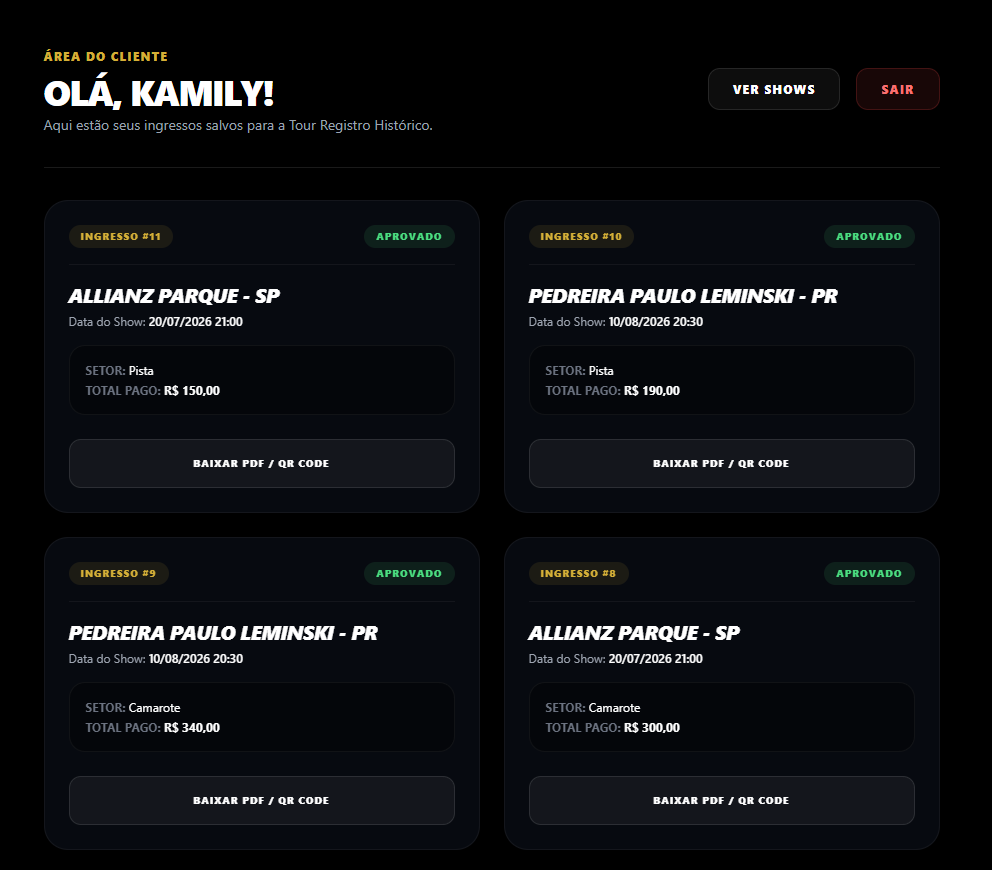
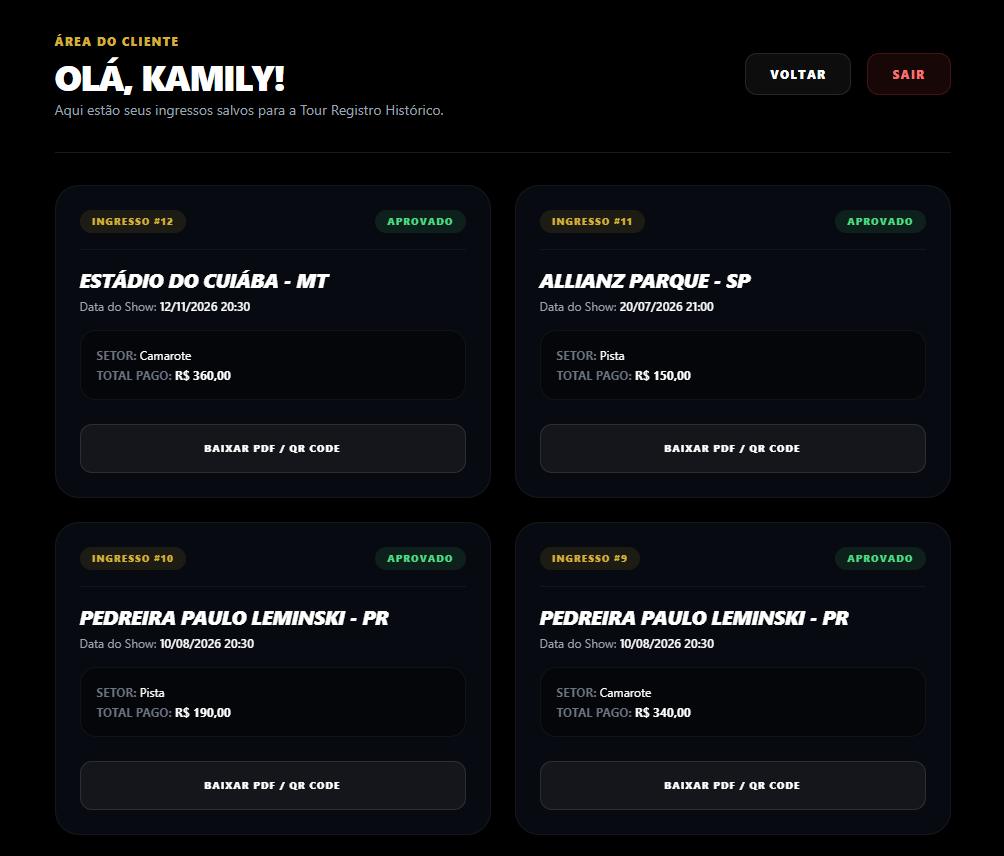
Atualizando dados...

diff --git a/index.php b/index.php
@@ -51,7 +51,6 @@ require_once('./conexao.php');
             <div class="hidden md:flex space-x-10 text-[11px] font-bold uppercase tracking-[0.2rem] text-gray-400">
                 <a href="#" class="hover:text-luan-gold transition">Início</a>
                 <a href="#shows" class="hover:text-luan-gold transition">A Tour</a>
-                <a href="#shows" class="hover:text-luan-gold transition">Cidades</a>
                 <a href="#contact" class="hover:text-luan-gold transition">Contato</a>
             </div>
 
@@ -87,44 +86,36 @@ require_once('./conexao.php');
 
         <nav class="w-full">
             <ul class="text-white flex gap-1 items-center">
-                <li class="bg-[#1D1D1DE1] h-[62px] flex flex-col items-center justify-center font-noodle w-full text-[14px] tracking-wider">
-                    <a href="#" class="hover:text-luan-gold transition">
-                        <svg xmlns="http://www.w3.org/2000/svg" width="20" height="20" fill="currentColor" class="bi bi-house-door mb-0.5" viewBox="0 0 16 16">
+          
+                <li class="w-full">
+                    <a href="index.php" class="bg-[#1D1D1DE1] h-[62px] flex flex-col items-center justify-center font-noodle w-full text-[14px] tracking-wider text-white hover:text-luan-gold transition duration-200">
+                        <svg xmlns="http://www.w3.org/2000/svg" width="20" height="20" fill="currentColor" class="bi bi-house-door mb-1" viewBox="0 0 16 16">
                             <path d="M8.354 1.146a.5.5 0 0 0-.708 0l-6 6A.5.5 0 0 0 1.5 7.5v7a.5.5 0 0 0 .5.5h4.5a.5.5 0 0 0 .5-.5v-4h2v4a.5.5 0 0 0 .5.5H14a.5.5 0 0 0 .5-.5v-7a.5.5 0 0 0-.146-.354L13 5.793V2.5a.5.5 0 0 0-.5-.5h-1a.5.5 0 0 0-.5.5v1.293zM2.5 14V7.707l5.5-5.5 5.5 5.5V14H10v-4a.5.5 0 0 0-.5-.5h-3a.5.5 0 0 0-.5.5v4z" />
                         </svg>
+                        <span>Home</span>
                     </a>
-                    Home
                 </li>
-
-                <li class="bg-[#1D1D1DE1] h-[62px] flex flex-col items-center justify-center font-noodle w-full text-[14px] tracking-wider">
-                    <a href="#shows" class="hover:text-luan-gold transition">
-                        <svg xmlns="http://www.w3.org/2000/svg" width="20" height="20" fill="currentColor" class="bi bi-geo-alt mb-0.5" viewBox="0 0 16 16">
-                            <path d="M12.166 8.94c-.524 1.062-1.234 2.12-1.96 3.07A32 32 0 0 1 8 14.58a32 32 0 0 1-2.206-2.57c-.726-.95-1.436-2.008-1.96-3.07C3.304 7.867 3 6.862 3 6a5 5 0 0 1 10 0c0 .862-.305 1.867-.834 2.94M8 16s6-5.686 6-10A6 6 0 0 0 2 6c0 4.314 6 10 6 10" />
-                            <path d="M8 8a2 2 0 1 1 0-4 2 2 0 0 1 0 4m0 1a3 3 0 1 0 0-6 3 3 0 0 0 0 6" />
-                        </svg>
-                    </a>
-                    Cidades
-                </li>
-
 
                 <?php if (isset($_SESSION['usuario_id'])): ?>
-                    <li class="bg-[#1D1D1DE1] h-[62px] flex flex-col items-center justify-center font-noodle w-full text-[14px] tracking-wider text-luan-gold">
-                        <a href="meus_ingressos.php" class="hover:text-white transition">
-                            <svg xmlns="http://www.w3.org/2000/svg" width="20" height="20" fill="currentColor" class="bi bi-ticket-perforated mb-0.5" viewBox="0 0 16 16">
+                  
+                    <li class="w-full">
+                        <a href="meus_ingressos.php" class="bg-[#1D1D1DE1] h-[62px] flex flex-col items-center justify-center font-noodle w-full text-[14px] tracking-wider text-white hover:text-luan-gold transition duration-200">
+                            <svg xmlns="http://www.w3.org/2000/svg" width="20" height="20" fill="currentColor" class="bi bi-ticket-perforated mb-1" viewBox="0 0 16 16">
                                 <path d="M4 4.85v.9h1v-.9zm7 0v.9h1v-.9zm-7 1.8v.9h1v-.9zm7 0v.9h1v-.9zm-7 1.8v.9h1v-.9zm7 0v.9h1v-.9zm-7 1.8v.9h1v-.9zm7 0v.9h1v-.9z" />
                                 <path d="M1.5 3A1.5 1.5 0 0 0 0 4.5V6a.5.5 0 0 0 .5.5 1.5 1.5 0 1 1 0 3 .5.5 0 0 0-.5.5v1.5A1.5 1.5 0 0 0 1.5 13h13a1.5 1.5 0 0 0 1.5-1.5V10a.5.5 0 0 0-.5-.5 1.5 1.5 0 1 1 0-3 .5.5 0 0 0 .5-.5V4.5A1.5 1.5 0 0 0 14.5 3zM1 4.5a.5.5 0 0 1 .5-.5h13a.5.5 0 0 1 .5.5v1.05a2.5 2.5 0 0 0 0 4.9v1.05a.5.5 0 0 1-.5.5h-13a.5.5 0 0 1-.5-.5v-1.05a2.5 2.5 0 0 0 0-4.9z" />
                             </svg>
+                            <span>Ingressos</span>
                         </a>
-                        Ingressos
                     </li>
                 <?php else: ?>
-                    <li class="bg-[#1D1D1DE1] h-[62px] flex flex-col items-center justify-center font-noodle w-full text-[14px] tracking-wider">
-                        <a href="login.php" class="hover:text-luan-gold transition">
-                            <svg xmlns="http://www.w3.org/2000/svg" width="20" height="20" fill="currentColor" class="bi bi-person mb-0.5" viewBox="0 0 16 16">
+            
+                    <li class="w-full">
+                        <a href="login.php" class="bg-[#1D1D1DE1] h-[62px] flex flex-col items-center justify-center font-noodle w-full text-[14px] tracking-wider text-white hover:text-luan-gold transition duration-200">
+                            <svg xmlns="http://www.w3.org/2000/svg" width="20" height="20" fill="currentColor" class="bi bi-person mb-1" viewBox="0 0 16 16">
                                 <path d="M8 8a3 3 0 1 0 0-6 3 3 0 0 0 0 6m2-3a2 2 0 1 1-4 0 2 2 0 0 1 4 0m4 8c0 1-1 1-1 1H3s-1 0-1-1 1-4 6-4 6 3 6 4m-1-.004c-.001-.246-.154-.986-.832-1.664C11.516 10.68 10.289 10 8 10s-3.516.68-4.168 1.332c-.678.678-.83 1.418-.832 1.664z" />
                             </svg>
+                            <span>Entrar</span>
                         </a>
-                        Entrar
                     </li>
                 <?php endif; ?>
             </ul>
@@ -155,13 +146,13 @@ require_once('./conexao.php');
                 </p>
 
                 <div class="flex flex-col md:flex-row items-center justify-center gap-4">
-                    <button class="w-full sm:w-auto bg-luan-gold text-black font-black uppercase tracking-widest px-8 py-4 rounded-full hover:scale-105 transition transform duration-300 shadow-lg shadow-luan-gold/30">
+                    <a href="#shows"  class="w-full sm:w-auto bg-luan-gold text-black font-black uppercase tracking-widest px-8 py-4 rounded-full hover:scale-105 transition transform duration-300 shadow-lg shadow-luan-gold/30">
                         Ver Datas Disponíveis
-                    </button>
+                    </a>
 
-                    <button class="w-full sm:w-auto border border-white/20 text-white font-bold uppercase tracking-widest px-8 py-4 rounded-full hover:bg-white/10 transition duration-300 backdrop-blur-sm">
+                    <a href="https://open.spotify.com/intl-pt/artist/3qvcCP2J0fWi0m0uQDUf6r?si=wnRd3U2xRzuD8X3k82hUfA" target="_blank" class="w-full sm:w-auto border border-white/20 text-white font-bold uppercase tracking-widest px-8 py-4 rounded-full hover:bg-white/10 transition duration-300 backdrop-blur-sm">
                         Ouvir no Spotify
-                    </button>
+                    </a>
                 </div>
             </div>
         </section>
@@ -224,9 +215,9 @@ require_once('./conexao.php');
 
                     <div class="flex items-center gap-4 justify-center">
                         <img src="./images/Spotify_Full_Logo_RGB_Green.png" alt="Spotify" class="w-[130px] md:w-30 object-contain shrink-0">
-                        <button class="hidden md:block bg-[#1DB954] text-black font-black px-8 py-3 rounded-full uppercase text-[10px] tracking-widest hover:scale-105 transition-all">
+                        <a href="https://open.spotify.com/intl-pt/artist/3qvcCP2J0fWi0m0uQDUf6r?si=HhmhdrTpSbaMpfXPdgJ-PA" target="_blank" class="hidden md:block bg-[#1DB954] text-black font-black px-8 py-3 rounded-full uppercase text-[10px] tracking-widest hover:scale-105 transition-all">
                             Acessar
-                        </button>
+                        </a>
                     </div>
                 </div>
 
@@ -275,7 +266,7 @@ require_once('./conexao.php');
 
                     <div class="justify-end flex">
                         <div class="hover:scale-x-110 duration-500 transition-all">
-                            <a href="https://youtube.com/@luansantana?si=ASG1lRiSBnSnfqla" class="text-white uppercase italic flex items-center justify-end gap-3 text-[20px] px-2 font-noodle">
+                            <a href="https://youtube.com/@luansantana?si=ASG1lRiSBnSnfqla" target="_blank" class="text-white uppercase italic flex items-center justify-end gap-3 text-[20px] px-2 font-noodle">
                                 Se inscrever no
                                 <svg data-v-e8744afb="" viewBox="0 0 46 53" class="h-14 fill-white">
                                     <path fill-rule="evenodd" clip-rule="evenodd" d="M15.3462 20.0001H12.1984V12.0875L8.45098 0H11.6175L13.6598 7.97774H13.8566L15.7958 0H18.9905L15.3368 11.6784L15.3462 20.0001ZM24.115 8.50773C24.1203 8.36228 24.0928 8.21749 24.0344 8.08396C23.9761 7.95043 23.8884 7.83154 23.7778 7.73599C23.65 7.6256 23.5013 7.54161 23.3405 7.48893C23.1796 7.43624 23.0098 7.41592 22.8409 7.42915C22.6883 7.42188 22.5357 7.44531 22.3924 7.49804C22.2492 7.55077 22.1181 7.63171 22.0071 7.73599C21.9009 7.83409 21.8174 7.95389 21.7625 8.08714C21.7075 8.22038 21.6823 8.36388 21.6886 8.50773V16.532C21.6689 16.8666 21.7721 17.1969 21.979 17.4618C22.0902 17.5749 22.225 17.6626 22.3738 17.7188C22.5227 17.775 22.6821 17.7984 22.8409 17.7872C23.012 17.8001 23.1839 17.7769 23.3454 17.7192C23.5068 17.6615 23.6542 17.5706 23.7778 17.4525C24.0056 17.1971 24.1233 16.8633 24.1057 16.5227L24.115 8.50773ZM22.8878 20.3721C22.3434 20.3998 21.7991 20.3149 21.2895 20.1228C20.7798 19.9307 20.316 19.6357 19.9273 19.2563C19.552 18.8574 19.2615 18.3875 19.0732 17.8747C18.8849 17.3619 18.8026 16.8167 18.8312 16.2716V8.6379C18.809 8.13013 18.898 7.62361 19.0921 7.15328C19.2862 6.68295 19.5807 6.25999 19.9554 5.91357C20.8004 5.20466 21.8859 4.84221 22.9908 4.90008C23.5073 4.88449 24.0218 4.97099 24.5043 5.15456C24.9868 5.33813 25.4277 5.6151 25.8013 5.96936C26.1705 6.33275 26.4594 6.76842 26.6498 7.24864C26.8401 7.72887 26.9276 8.24315 26.9068 8.75878V16.3646C26.9369 16.9062 26.856 17.4482 26.6693 17.958C26.4825 18.4678 26.1936 18.9347 25.8201 19.3307C25.4251 19.6883 24.9625 19.9645 24.4592 20.1433C23.9558 20.322 23.4217 20.3998 22.8878 20.3721ZM34.5046 18.373C34.0522 18.915 33.5105 19.3771 32.9026 19.7398C32.413 20.0336 31.8539 20.194 31.2819 20.2047C31.0032 20.2233 30.7242 20.1737 30.4694 20.0602C30.2145 19.9467 29.9917 19.7728 29.8204 19.5538C29.4397 18.9684 29.256 18.2783 29.2958 17.5826V5.272H32.1063V16.5599C32.0872 16.826 32.1493 17.0916 32.2843 17.3223C32.355 17.4022 32.4434 17.4648 32.5425 17.5052C32.6417 17.5455 32.7489 17.5625 32.8558 17.5547C33.1402 17.5256 33.4101 17.4159 33.6334 17.2386C33.9601 17.021 34.2509 16.7544 34.4953 16.4483V5.2906H37.3058V20.0001H34.4953L34.5046 18.373ZM28.0123 45.1607C27.7778 45.1636 27.5462 45.1093 27.3378 45.0026C27.0907 44.8717 26.8687 44.6985 26.682 44.4912V35.314C26.8413 35.1297 27.0354 34.978 27.2535 34.8677C27.4349 34.7708 27.6376 34.7197 27.8437 34.719C28.0085 34.7093 28.1733 34.7398 28.3235 34.8079C28.4738 34.876 28.6049 34.9795 28.7056 35.1095C28.932 35.443 29.0377 35.843 29.0054 36.2439V43.8404C29.0358 44.1942 28.9539 44.5486 28.7712 44.8539C28.6792 44.9622 28.5621 45.0468 28.4299 45.1002C28.2977 45.1537 28.1544 45.1744 28.0123 45.1607ZM36.8561 36.4949C36.8173 36.0358 36.9185 35.5758 37.1465 35.1746C37.2584 35.0376 37.4021 34.9296 37.5653 34.86C37.7285 34.7903 37.9063 34.7611 38.0834 34.7748C38.2609 34.7568 38.4401 34.7842 38.604 34.8541C38.768 34.9241 38.9112 35.0344 39.0202 35.1746C39.2483 35.5758 39.3495 36.0358 39.3107 36.4949V37.9919H36.8468L36.8561 36.4949ZM42.1961 42.0737H39.32V43.0965C39.3799 43.6715 39.2862 44.2519 39.0483 44.7795C38.9326 44.9107 38.7878 45.0135 38.6252 45.0797C38.4626 45.1458 38.2867 45.1736 38.1115 45.1607C37.9281 45.1785 37.7434 45.1453 37.5779 45.0648C37.4125 44.9844 37.2729 44.8598 37.1747 44.7051C36.946 44.201 36.8493 43.6477 36.8936 43.0965V40.3071H42.2336V36.5879C42.306 35.4284 41.9384 34.284 41.2031 33.3801C40.8245 32.9917 40.3653 32.6899 39.8572 32.4956C39.3492 32.3013 38.8046 32.2192 38.2614 32.255C37.6958 32.236 37.1324 32.3336 36.6067 32.5417C36.081 32.7497 35.6045 33.0637 35.2073 33.4637C34.4068 34.2823 33.9655 35.3822 33.98 36.5228V43.1337C33.9086 44.3391 34.2891 45.528 35.048 46.4717C35.419 46.8781 35.876 47.1981 36.3862 47.4087C36.8963 47.6192 37.4471 47.7152 37.9991 47.6898C38.5741 47.7326 39.1518 47.6527 39.6932 47.4555C40.2345 47.2582 40.727 46.9481 41.1375 46.5461C41.9069 45.5799 42.2815 44.3616 42.1868 43.1337L42.1961 42.0737ZM31.8908 36.123C31.9641 35.1424 31.7178 34.1645 31.1882 33.3336C30.9559 33.0232 30.6491 32.7756 30.2956 32.6131C29.9421 32.4507 29.5533 32.3787 29.1646 32.4038C28.7171 32.4071 28.2781 32.5256 27.8905 32.7478C27.4291 33.0102 27.0222 33.3573 26.6914 33.7706V27.327H23.8808V47.29H26.6914V46.1556C27.0071 46.5722 27.4139 46.9123 27.8811 47.1505C28.3335 47.3777 28.8358 47.4895 29.3426 47.4759C29.6984 47.4931 30.0533 47.4271 30.3787 47.2834C30.7041 47.1397 30.991 46.9222 31.2163 46.6484C31.6956 45.939 31.9261 45.0926 31.8721 44.2402L31.8908 36.123ZM21.1359 32.5711H18.3253V43.7288C18.0807 44.0347 17.79 44.3013 17.4634 44.5191C17.2376 44.6904 16.9685 44.7966 16.6858 44.826C16.5788 44.836 16.4708 44.82 16.3713 44.7796C16.2717 44.7391 16.1836 44.6752 16.1144 44.5935C15.9831 44.3616 15.9244 44.0962 15.9457 43.8311V32.5711H13.1352V44.8725C13.0843 45.5641 13.2548 46.2539 13.6224 46.8436C13.7915 47.0656 14.0137 47.2422 14.2688 47.3575C14.524 47.4727 14.8041 47.523 15.0838 47.5038C15.6552 47.4884 16.2131 47.3284 16.7046 47.0389C17.3251 46.6902 17.8798 46.2372 18.3441 45.7V47.3272H21.1546L21.1359 32.5711ZM13.2102 27.327H3.56064V30.228H6.8115V47.29H9.9593V30.228H13.2102V27.327ZM45.6906 46.2579C45.682 47.1142 45.5033 47.9604 45.1646 48.7481C44.8259 49.5357 44.334 50.2493 43.7169 50.8479C43.0999 51.4464 42.3699 51.9183 41.5687 52.2364C40.7676 52.5544 39.9111 52.7125 39.0483 52.7014C33.8083 52.9122 28.4589 53.0114 23.0002 52.999C17.5384 52.999 12.1796 52.9153 6.95203 52.7014C6.08925 52.7125 5.23275 52.5544 4.43163 52.2364C3.63051 51.9183 2.90051 51.4464 2.28346 50.8479C1.66641 50.2493 1.17445 49.5357 0.835772 48.7481C0.497092 47.9604 0.318346 47.1142 0.30979 46.2579C0.0849468 43.4685 -0.00873228 40.6232 0.000636175 37.8059C0.0100046 34.9886 0.0849468 32.2271 0.30979 29.3633C0.318346 28.507 0.497092 27.6607 0.835772 26.8731C1.17445 26.0855 1.66641 25.3719 2.28346 24.7733C2.90051 24.1747 3.63051 23.7029 4.43163 23.3848C5.23275 23.0667 6.08925 22.9087 6.95203 22.9197C12.1796 22.7059 17.5384 22.6129 23.0002 22.6222C28.462 22.6315 33.8114 22.7059 39.0483 22.9197C39.9111 22.9087 40.7676 23.0667 41.5687 23.3848C42.3699 23.7029 43.0999 24.1747 43.7169 24.7733C44.334 25.3719 44.8259 26.0855 45.1646 26.8731C45.5033 27.6607 45.682 28.507 45.6906 29.3633C45.9029 32.1837 46.006 34.9979 45.9997 37.8059C45.9935 40.6139 45.8904 43.4313 45.6906 46.2579Z"></path>
@@ -287,38 +278,65 @@ require_once('./conexao.php');
             </div>
         </section>
 
-        <section id="contact" class="mt-[-145px]">
-            <div class="flex justify-center bg-[url('./images/bgdesk-contact.webp')] bg-cover bg-center relative">
-                <div class="absolute inset-0 bg-pure-black/60"></div>
 
-                <div class="flex items-center justify-center flex-col p-20 relative z-10">
-                    <h2 class="uppercase text-7xl italic font-noodle mb-12 drop-shadow-[0_2px_10px_rgba(212,175,55,0.4)]">
-                        Contato
-                    </h2>
+<section id="contact" class="bg-[#0D0D0D] text-white py-12 px-4">
+    <div class="max-w-4xl mx-auto text-center">
+     
+        <h2 class="font-noodle text-2xl md:text-3xl text-luan-gold tracking-wider mb-2">
+            CONTATO / PORTFÓLIO
+        </h2>
+        <p class="text-gray-400 text-xs md:text-sm max-w-md mx-auto mb-8">
+            Desenvolvido por Kamily Vitória. Se você gostou deste projeto, conecte-se comigo!
+        </p>
 
-                    <div class="flex flex-wrap justify-center gap-8 uppercase font-noodle text-[32px] text-white">
-                        <a href="#" class="hover:text-luan-gold transition-all duration-300 hover:scale-110">Escritório Ls</a>
-                        <a href="#shows" class="hover:text-luan-gold transition-all duration-300 hover:scale-110">Shows</a>
-                        <a href="#" class="hover:text-luan-gold transition-all duration-300 hover:scale-110">Central de fás</a>
-                        <a href="#" class="hover:text-luan-gold transition-all duration-300 hover:scale-110">Publicidade</a>
-                        <a href="#" class="hover:text-luan-gold transition-all duration-300 hover:scale-110">Imprensa</a>
-                    </div>
+        <div class="grid grid-cols-1 sm:grid-cols-3 gap-4 max-w-xl mx-auto">
+           
+     
+            <a href="https://www.linkedin.com/in/kamilyreis" target="_blank" class="bg-[#1D1D1D] border border-luan-gold/40 hover:border-luan-gold p-4 rounded-xl flex flex-col items-center justify-center group transition duration-300">
+                <div class="w-10 h-10 rounded-full bg-[#1A1A1A] flex items-center justify-center mb-2 group-hover:bg-luan-gold group-hover:text-black transition duration-300 text-luan-gold">
+                    <svg xmlns="http://www.w3.org/2000/svg" width="18" height="18" fill="currentColor" class="bi bi-linkedin" viewBox="0 0 16 16">
+                        <path d="M0 1.146C0 .513.526 0 1.175 0h13.65C15.474 0 16 .513 16 1.146v13.708c0 .633-.526 1.146-1.175 1.146H1.175C.526 16 0 15.487 0 14.854zm4.943 12.248V6.169H2.542v7.225zm-1.2-8.212c.837 0 1.358-.554 1.358-1.248-.015-.709-.52-1.248-1.342-1.248S2.4 3.226 2.4 3.934c0 .694.521 1.248 1.327 1.248zm4.908 8.212V9.359c0-.216.016-.432.08-.586.173-.431.568-.878 1.232-.878.869 0 1.216.662 1.216 1.634v3.865h2.401V9.25c0-2.22-1.184-3.252-2.764-3.252-1.274 0-1.845.7-2.165 1.193v.025h-.016l.016-.025V6.169h-2.4c.03.678 0 7.225 0 7.225z"/>
+                    </svg>
                 </div>
-            </div>
-        </section>
+                <span class="font-noodle text-base tracking-wide mb-0.5">LinkedIn</span>
+                <span class="text-[10px] text-gray-500">Conectar</span>
+            </a>
+
+          
+            <a href="https://github.com/kamily327" target="_blank" class="bg-[#1D1D1D] border border-luan-gold/40 hover:border-luan-gold p-4 rounded-xl flex flex-col items-center justify-center group transition duration-300">
+                <div class="w-10 h-10 rounded-full bg-[#1A1A1A] flex items-center justify-center mb-2 group-hover:bg-luan-gold group-hover:text-black transition duration-300 text-luan-gold">
+                    <svg xmlns="http://www.w3.org/2000/svg" width="18" height="18" fill="currentColor" class="bi bi-github" viewBox="0 0 16 16">
+                        <path d="M8 0C3.58 0 0 3.58 0 8c0 3.54 2.29 6.53 5.47 7.59.4.07.55-.17.55-.38 0-.19-.01-.82-.01-1.49-2.01.37-2.53-.49-2.69-.94-.09-.23-.48-.94-.82-1.13-.28-.15-.68-.52-.01-.53.63-.01 1.08.58 1.23.82.72 1.21 1.87.87 2.33.66.07-.52.28-.87.51-1.07-1.78-.2-3.64-.89-3.64-3.95 0-.87.31-1.59.82-2.15-.08-.2-.36-1.02.08-2.12 0 0 .67-.21 2.2.82.64-.18 1.32-.27 2-.27s1.36.09 2 .27c1.53-1.04 2.2-.82 2.2-.82.44 1.1.16 1.92.08 2.12.51.56.82 1.27.82 2.15 0 3.07-1.87 3.75-3.65 3.95.29.25.54.73.54 1.48 0 1.07-.01 1.93-.01 2.2 0 .21.15.46.55.38A8.01 8.01 0 0 0 16 8c0-4.42-3.58-8-8-8"/>
+                    </svg>
+                </div>
+                <span class="font-noodle text-base tracking-wide mb-0.5">GitHub</span>
+                <span class="text-[10px] text-gray-500">Repositórios</span>
+            </a>
+
+         
+            <a href="https://mail.google.com/mail/?view=cm&fs=1&to=[email redacted]" target="_blank" class="bg-[#1D1D1D] border border-luan-gold/40 hover:border-luan-gold p-4 rounded-xl flex flex-col items-center justify-center group transition duration-300">
+                <div class="w-10 h-10 rounded-full bg-[#1A1A1A] flex items-center justify-center mb-2 group-hover:bg-luan-gold group-hover:text-black transition duration-300 text-luan-gold">
+                    <svg xmlns="http://www.w3.org/2000/svg" width="18" height="18" fill="currentColor" class="bi bi-envelope" viewBox="0 0 16 16">
+                        <path d="M0 4a2 2 0 0 1 2-2h12a2 2 0 0 1 2 2v8a2 2 0 0 1-2 2H2a2 2 0 0 1-2-2zm2-1a1 1 0 0 0-1 1v.217l7 4.2 7-4.2V4a1 1 0 0 0-1-1zm13 2.383-4.708 2.825L15 11.105zm-.034 6.876-5.64-3.471L8 9.583l-1.326-.795-5.64 3.47A1 1 0 0 0 2 13h12a1 1 0 0 0 .966-.741zM1 11.105l4.708-2.897L1 5.383z"/>
+                    </svg>
+                </div>
+                <span class="font-noodle text-base tracking-wide mb-0.5">E-mail</span>
+                <span class="text-[10px] text-gray-500">Contato</span>
+            </a>
+        </div>
+    </div>
+</section>
     </main>
 
     <footer class="bg-pure-black pt-3 text-center mt-[-5px] relative z-20">
-        <div class="container flex justify-center mx-auto p-5">
-            <h3 class="text-3xl uppercase flex flex-col tracking-widest items-center text-white/80 border-r border-white/80 pr-4">
+
+        <div class="container mx-auto p-5">
+
+            <h3 class="text-3xl uppercase flex flex-col tracking-widest items-center text-white/80  pr-4">
                 Luan
                 <span class="tracking-[0.7rem] text-[10px] text-white/70">Santana</span>
-            </h3>
+           
 
-            <p class="font-bold text-white/70 tracking-tight [text-shadow:_0_1px_5px_rgb(0_0_0_/_100%)] text-xs flex flex-col p-4">
-                Desenvolvido por
-                <a href="https://kamily-reis.vercel.app/" target="_blank" class="hover:text-luan-gold transition-colors">@Kamily Reis</a>
-            </p>
         </div>
     </footer>
     <script src="./script/index.js"></script>

diff --git a/meus_ingressos.php b/meus_ingressos.php
@@ -41,7 +41,7 @@ $ingressos = $stmt->fetchAll(PDO::FETCH_ASSOC);
             </div>
             <div class="flex items-center gap-4">
                 <a href="index.php" class="py-3 px-6 bg-white/5 border border-white/10 text-white font-black uppercase text-xs tracking-widest rounded-xl hover:bg-white/10 transition duration-300">
-                    Ver Shows
+                    Voltar
                 </a>
                 <a href="logout.php" class="py-3 px-6 bg-red-500/10 border border-red-500/20 text-red-400 font-black uppercase text-xs tracking-widest rounded-xl hover:bg-red-500/20 transition duration-300">
                     Sair